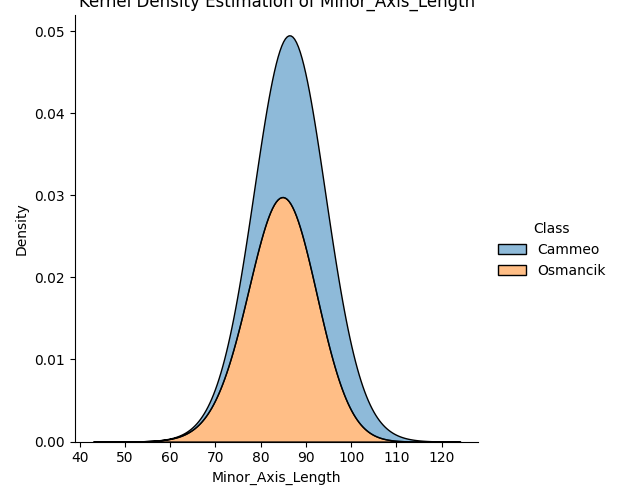
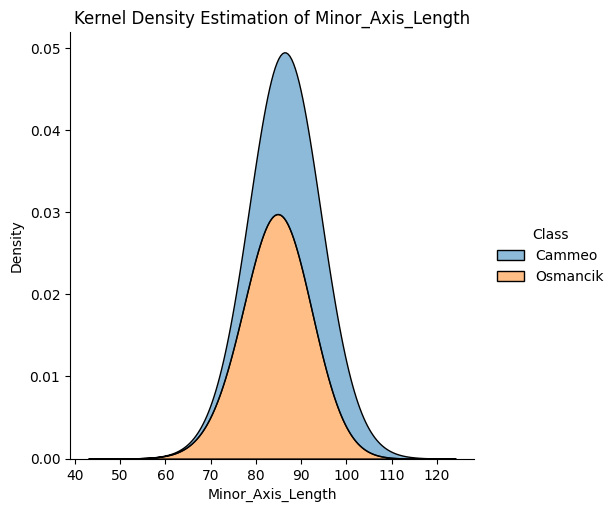
Fixed cropped text

Changed region(s): [[0.0, 0.0, 0.7711, 0.99], [0.8019, 0.45, 0.9562, 0.57]]

diff --git a/main.py b/main.py
@@ -391,12 +391,12 @@ if __name__ == "__main__":
     # Features: Area, Perimeter, Major_Axis_Length, Minor_Axis_Length, Eccentricity, Convex_Area, Extent
     # Targets: Class (Cammeo, Osmancik)
 
-    dataset.plot_features(features = ["Area", "Perimeter", "Major_Axis_Length"], kind='scatter', diag_kind = 'kde', plot = False)
+    # dataset.plot_features(features = ["Area", "Perimeter", "Major_Axis_Length"], kind='scatter', diag_kind = 'kde', plot = False)
     dataset.plot_sns_feature("Minor_Axis_Length", kind='kde', save=True)
-    dataset.plot_features(features = ["Eccentricity", "Convex_Area", "Extent"], kind='scatter', diag_kind = 'kde', plot = False)
+    # dataset.plot_features(features = ["Eccentricity", "Convex_Area", "Extent"], kind='scatter', diag_kind = 'kde', plot = False)
 
-    dataset.plot_features(features = ["Area", "Perimeter", "Major_Axis_Length"], kind='reg', diag_kind = 'kde', plot = False)
-    dataset.plot_features(features = ["Eccentricity", "Convex_Area", "Extent"], kind='reg', diag_kind = 'kde', plot = False)
+    # dataset.plot_features(features = ["Area", "Perimeter", "Major_Axis_Length"], kind='reg', diag_kind = 'kde', plot = False)
+    # dataset.plot_features(features = ["Eccentricity", "Convex_Area", "Extent"], kind='reg', diag_kind = 'kde', plot = False)
 
     # dataset.PCA_plot_component_coeff(pcs=[0, 1, 2])
 
